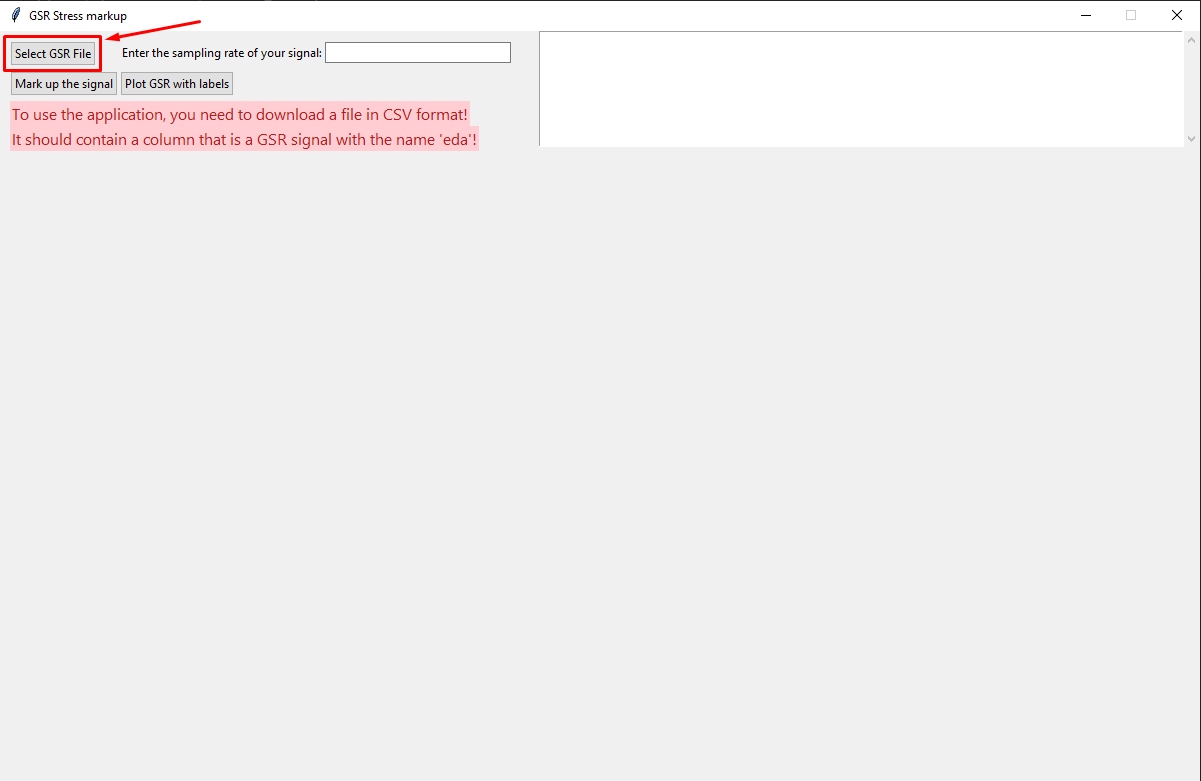
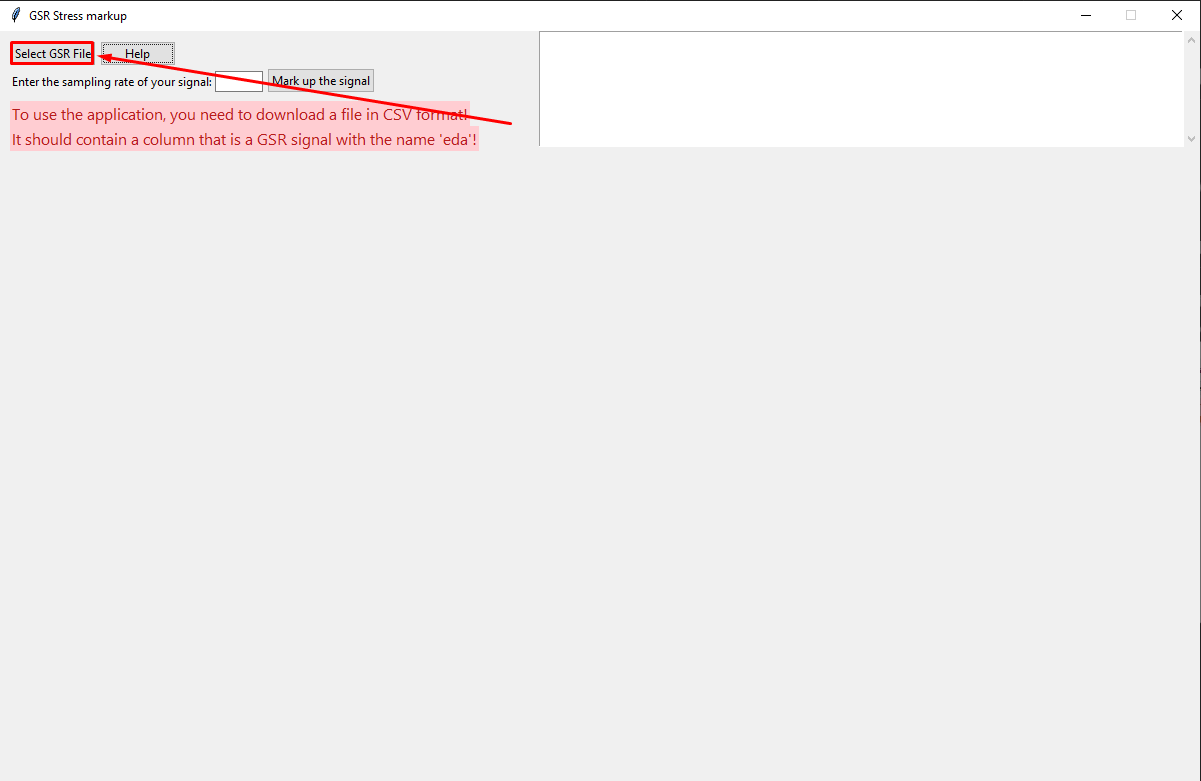
interface updated and help added

Changed region(s): [[0.0, 0.0307, 0.4005, 0.1536]]

diff --git a/interface.py b/interface.py
@@ -9,8 +9,9 @@ import ctypes
 
 class GUI:
 
-    def __init__(self, window): 
+    def __init__(self, window, help_text): 
         ctypes.windll.shcore.SetProcessDpiAwareness(1)
+        self.help_text = help_text
         self.str_markup = StringVar()
         self.sampling_rate = StringVar()
         self.window = window
@@ -24,16 +25,28 @@ class GUI:
         self.value_label = ttk.Label(window)
 
         ttk.Button(window, text = "Select GSR File", command = lambda: self.set_path_users_field()).place(x=10,y=10) 
-        ttk.Label(window, text='Enter the sampling rate of your signal: ').place(x = 120, y=12) 
-        ttk.Entry(window, textvariable = self.sampling_rate, width = 30).place(x = 325, y=11) 
-        ttk.Button(window, text = "Plot GSR with labels", command = lambda: self.plot_error_window()).place(x = 120, y =40)
-        ttk.Button(window, text = "Mark up the signal", command = lambda: self.markup_error_window()).place(x = 10, y =40)
+        ttk.Label(window, text='Enter the sampling rate of your signal: ').place(x = 10, y=41) 
+        ttk.Entry(window, textvariable = self.sampling_rate, width = 7).place(x = 215, y=40) 
+        # ttk.Button(window, text = "Plot GSR with labels", command = lambda: self.plot_error_window()).place(x = 120, y =40)
+        ttk.Button(window, text = "Mark up the signal", command = lambda: self.markup_error_window()).place(x = 267, y =37)
+        ttk.Button(window, text = "Help", command = lambda: self.help_window()).place(x = 100, y =10)
         rule_label_1 = ttk.Label(text="To use the application, you need to download a file in CSV format!", background="#FFCDD2", foreground="#B71C1C", font=("Segoe UI", 12))
         rule_label_2 = ttk.Label(text="It should contain a column that is a GSR signal with the name 'eda'!", background="#FFCDD2", foreground="#B71C1C", font=("Segoe UI", 12))
         rule_label_1.place(x=10, y=70)
         rule_label_2.place(x=10, y=95)
         self.st = ScrolledText(window, width=80, height=7)
         self.st.pack(anchor="ne")
+
+    def help_window(self):
+        help = tkinter.Toplevel(self.window, width=1000, height=330)
+        help.title("Help")
+        help_label = ttk.Label(help, text=self.help_text,  font=("Segoe UI", 12))
+        help_label.place(x=10,y=5)
+        # help.transient(help)
+        help.grab_set()
+        # help.focus_set()
+        # help.wait_window()
+
 
     def apply_mark(self, mark):
         self.user_mark_applied = mark
@@ -47,25 +60,21 @@ class GUI:
             mb.showerror("Error", msg)
 
     def plot_error_window(self):
-        if self.tGSR:
-            self.tGSR.viz_custom(window)
-            current_value = tkinter.IntVar()
-            self.value_label['text'] = str(current_value.get())
-            self.value_label.place(x=145, y=710)
-            ttk.Button(window, text = "Apply", command = lambda: self.apply_mark(current_value.get())).place(x=30, y =710)
-            ttk.Button(window, text = "Submit label", command = lambda: self.submit_mark(self.user_mark_applied)).place(x=1100, y=710)
-            slider = ttk.Scale(window,
-                from_=0,
-                to=self.tGSR.get_length_signal() - 1,
-                orient='horizontal',
-                command=lambda x: self.value_label.configure(text=str(current_value.get())),
-                variable=current_value,
-                length=890
-            )
-            slider.place(x=188, y=710)
-        else:
-            msg = "You haven't selected a file. Please select the GSR signal file first and try again."
-            mb.showerror("Error", msg)
+        self.tGSR.viz_custom(window)
+        current_value = tkinter.IntVar()
+        self.value_label['text'] = str(current_value.get())
+        self.value_label.place(x=145, y=710)
+        ttk.Button(window, text = "Apply", command = lambda: self.apply_mark(current_value.get())).place(x=30, y =710)
+        ttk.Button(window, text = "Submit label", command = lambda: self.submit_mark(self.user_mark_applied)).place(x=1100, y=710)
+        slider = ttk.Scale(window,
+            from_=0,
+            to=self.tGSR.get_length_signal() - 1,
+            orient='horizontal',
+            command=lambda x: self.value_label.configure(text=str(current_value.get())),
+            variable=current_value,
+            length=890
+        )
+        slider.place(x=188, y=710)
 
     def markup_error_window(self):
         if self.tGSR and self.sampling_rate.get() and not self.markuped:
@@ -86,6 +95,7 @@ class GUI:
                 k = i+1
             if len(labels) % 2 == 1:
                 self.st.insert(str(k+3)+'.0', '\nStress ' + str(k+1) + ' started at the ' + str(int(labels[-1])//4) + 'th seconds.')
+            self.plot_error_window()
         elif not self.tGSR:
             msg = "You have not selected a file. Please select the GSR signal file first and try again."
             mb.showerror("Error", msg)
@@ -136,7 +146,8 @@ class GUI:
 
 if __name__ == '__main__':
     window = tkinter.Tk()
-    gui = GUI(window)
+    help_text = open('help_menu.txt', 'r', encoding='utf-8')
+    gui = GUI(window, help_text.read())
     window.mainloop()
     try:
         window.protocol("WM_DELETE_WINDOW", gui.on_closing())

diff --git a/README.md b/README.md
@@ -11,7 +11,7 @@ First, you need to download the file with the GSR signal (after that, the raw da
 ![Alt text](./images_for_readme/readme1.png "Optional title")
 Then you need to enter the sampling rate of your signal:
 ![Alt text](./images_for_readme/readme2.png "Optional title")
-And click the «Markup» and «Plot» buttons (after that, the array of labels will be sent to the server):
+And click the «Mark up the signal» button (after that, the array of labels will be sent to the server):
 ![Alt text](./images_for_readme/readme3.png "Optional title")
 
 Then, using the slider at the bottom and the corresponding buttons, you can add your own markup to the graph. To do this, place the slider in the right place and click the «Apply» button — the label will be placed on the chart, but not saved. To save the label, click the «Submit» button. All saved tags will be sent to the server.
